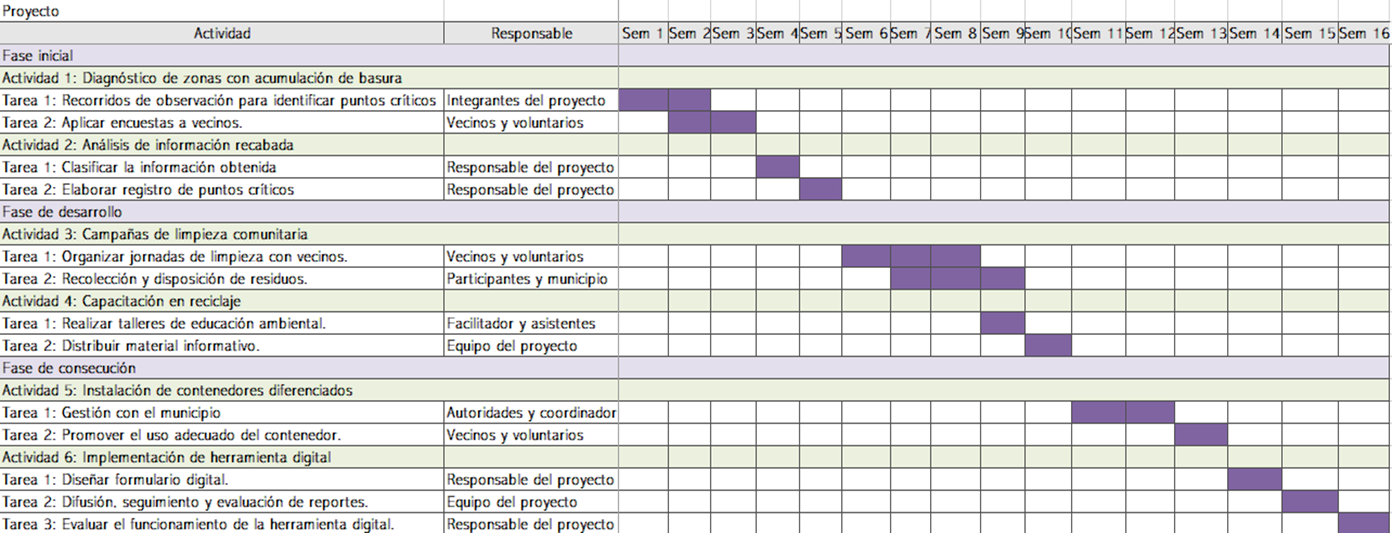
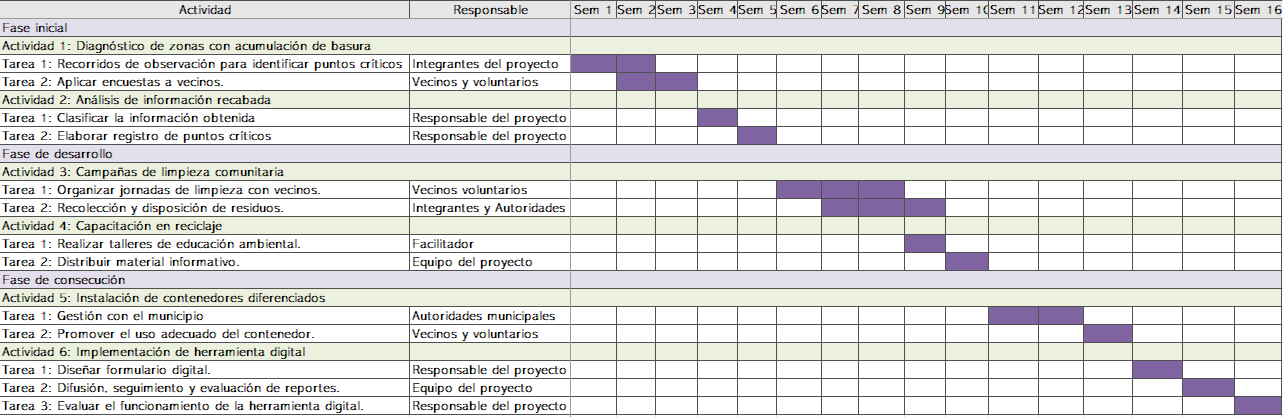
Actualizacion final

diff --git a/resources/views/fase4.blade.php b/resources/views/fase4.blade.php
@@ -96,8 +96,7 @@
                     <div class="card-body">
                         <i class="bi bi-diagram-3-fill fase-icon"></i>
                         <h5 class="mt-3">Fase 3</h5>
-                        <p class="small">Actividades, tareas,<br>
-                            recursos y procesos</p>
+                        <p class="small">Actividades, tareas,<br>recursos y procesos</p>
                     </div>
                 </div>
             </a>
@@ -121,9 +120,7 @@
                     <div class="card-body">
                         <i class="bi bi-bar-chart-steps fase-icon"></i>
                         <h5 class="mt-3">Fase 5: Control</h5>
-                        <p class="small"> Diagrama de Gantt<br>
-                            para gestión del proyecto
-                        </p>
+                        <p class="small">Diagrama de Gantt<br>para gestión del proyecto</p>
                     </div>
                 </div>
             </a>
@@ -138,9 +135,9 @@
     <div class="card p-4 mb-4">
         <h2 class="text-success">Introducción</h2>
         <p>
-            A partir de esta fase del proyecto <strong>“Colonia Limpia”</strong>, se identifican los
-            apoyos necesarios y se asignan responsabilidades claras a cada perfil, lo que permite
-            que las acciones planeadas se realicen de forma práctica y eficiente.
+            A partir de esta fase del proyecto <strong>“Colonia Limpia”</strong>, se identifican los apoyos
+            necesarios y se asignan responsabilidades claras a cada perfil, lo que permite que las
+            acciones planeadas se realicen de forma práctica y eficiente.
         </p>
         <p>
             Esta organización es clave para lograr la participación de la comunidad, optimizar los
@@ -165,117 +162,134 @@
                 </thead>
                 <tbody>
                     <tr>
-                        <td><strong>Coordinador del proyecto</strong></td>
-                        <td>Responsable, organizado, con capacidad de liderazgo y toma de decisiones.</td>
-                        <td>Supervisar actividades, coordinar al equipo, dar seguimiento al plan de acción.</td>
-                        <td>Todas las fases</td>
+                        <td><strong>Responsable del proyecto</strong></td>
+                        <td>Persona con capacidad de organización, análisis y toma de decisiones.</td>
+                        <td>
+                            Coordina las actividades del proyecto, analiza la información recabada,
+                            elabora registros de puntos críticos y evalúa el funcionamiento de la
+                            herramienta digital.
+                        </td>
+                        <td>
+                            Primera fase: Actividades previas<br>
+                            Tercera fase: Actividades de concreción
+                        </td>
                     </tr>
+
                     <tr>
-                        <td><strong>Equipo de diagnóstico</strong></td>
-                        <td>Observadores, comunicativos y comprometidos con la comunidad.</td>
-                        <td>Realizar recorridos, aplicar encuestas y registrar puntos críticos.</td>
-                        <td>Fase 1 y 3</td>
+                        <td><strong>Integrantes del proyecto</strong></td>
+                        <td>Equipo comprometido con el cuidado del medio ambiente y el trabajo comunitario.</td>
+                        <td>
+                            Realizan recorridos de observación, apoyan en la recolección de información
+                            y participan en la difusión de acciones del proyecto.
+                        </td>
+                        <td>
+                            Primera fase: Actividades previas<br>
+                            Segunda fase: Actividades de desarrollo
+                        </td>
                     </tr>
+
                     <tr>
                         <td><strong>Vecinos voluntarios</strong></td>
-                        <td>Participativos, solidarios y con disposición de colaborar.</td>
-                        <td>Apoyar en campañas de limpieza y uso de contenedores.</td>
-                        <td>Fase 3 y 4</td>
+                        <td>Habitantes de la colonia interesados en mejorar su entorno.</td>
+                        <td>
+                            Responden encuestas, participan en jornadas de limpieza y promueven el uso
+                            adecuado de los contenedores de basura.
+                        </td>
+                        <td>
+                            Primera fase: Actividades previas<br>
+                            Segunda fase: Actividades de desarrollo<br>
+                            Tercera fase: Actividades de concreción
+                        </td>
                     </tr>
+
                     <tr>
                         <td><strong>Facilitador ambiental</strong></td>
-                        <td>Con conocimientos en reciclaje y educación ambiental.</td>
-                        <td>Impartir talleres y orientar sobre separación de residuos.</td>
-                        <td>Fase 3</td>
+                        <td>Persona con conocimientos en educación ambiental y reciclaje.</td>
+                        <td>
+                            Imparte talleres de capacitación sobre reciclaje y manejo adecuado de residuos.
+                        </td>
+                        <td>
+                            Segunda fase: Actividades de desarrollo
+                        </td>
                     </tr>
+
                     <tr>
-                        <td><strong>Responsable tecnológico</strong></td>
-                        <td>Con habilidades digitales y manejo de herramientas tecnológicas.</td>
-                        <td>Diseñar y administrar la herramienta digital de reportes.</td>
-                        <td>Fase 3</td>
+                        <td><strong>Equipo del proyecto</strong></td>
+                        <td>Grupo de apoyo operativo y de difusión.</td>
+                        <td>
+                            Distribuye material informativo, difunde campañas y da seguimiento a los
+                            reportes ciudadanos.
+                        </td>
+                        <td>
+                            Segunda fase: Actividades de desarrollo<br>
+                            Tercera fase: Actividades de concreción
+                        </td>
+                    </tr>
+
+                    <tr>
+                        <td><strong>Autoridades municipales</strong></td>
+                        <td>Personal del gobierno local con facultad para apoyar acciones comunitarias.</td>
+                        <td>
+                            Apoyan en la instalación de contenedores y en la disposición adecuada de los residuos.
+                        </td>
+                        <td>
+                            Tercera fase: Actividades de concreción
+                        </td>
                     </tr>
                 </tbody>
             </table>
         </div>
     </div>
-
     <!-- ESQUEMA DE ORGANIZACIÓN -->
-    <div class="card p-4">
-        <h2 class="text-success text-center mb-4">Esquema de organización del proyecto</h2>
+<div class="card p-4 mb-5">
+    <h2 class="text-success text-center mb-4">Esquema de organización del proyecto</h2>
 
-        <div class="row g-4">
-            <div class="col-md-4">
-                <div class="perfil-box">
-                    <h5>Coordinador del proyecto</h5>
-                    <p>Dirige y supervisa todas las fases del proyecto.</p>
-                </div>
-            </div>
+    <div class="text-center">
+        <img 
+            src="organigrama_proyecto.png" 
+            alt="Organigrama del proyecto Colonia Limpia"
+            class="img-fluid rounded shadow mb-3"
+        >
 
-            <div class="col-md-4">
-                <div class="perfil-box">
-                    <h5>Equipo de diagnóstico</h5>
-                    <p>Identifica problemáticas y recopila información clave.</p>
-                </div>
-            </div>
+        <p class="text-muted fst-italic">
+            Figura. Organigrama correspondiente a la estructura de organización y asignación de 
+            responsabilidades de la Fase 4 del proyecto Colonia Limpia.
+        </p>
+    </div>
+</div>
 
-            <div class="col-md-4">
-                <div class="perfil-box">
-                    <h5>Facilitador ambiental</h5>
-                    <p>Capacita a la comunidad en reciclaje y manejo de residuos.</p>
-                </div>
-            </div>
 
-            <div class="col-md-6">
-                <div class="perfil-box">
-                    <h5>Vecinos voluntarios</h5>
-                    <p>Participan activamente en campañas y actividades comunitarias.</p>
-                </div>
-            </div>
+  
 
-            <div class="col-md-6">
-                <div class="perfil-box">
-                    <h5>Responsable tecnológico</h5>
-                    <p>Gestiona la herramienta digital y el seguimiento de reportes.</p>
-                </div>
-            </div>
-        </div>
-        
-    </div><br>
-
- <!-- PREGUNTAS FINALES -->
+    <!-- PREGUNTAS FINALES -->
     <div class="card p-4">
         <h2 class="text-success mb-4">Reflexión sobre la división del trabajo</h2>
 
         <h5>¿Cuál es la importancia de la división del trabajo en la etapa de la organización?</h5>
         <p>
-            Es importante porque permite que cada persona sepa exactamente qué tiene que hacer dentro
-            del proyecto. Al repartir las actividades, el trabajo se vuelve más ordenado, se aprovecha
-            mejor el tiempo y se evitan confusiones. Además, al tener responsabilidades claras, el
-            proyecto puede avanzar de manera más eficiente y se logran mejor los objetivos planteados.
+            La división del trabajo es importante porque permite que cada persona conozca claramente
+            sus responsabilidades dentro del proyecto. Esto facilita la organización, mejora el uso
+            del tiempo y evita confusiones, logrando que el proyecto se desarrolle de manera eficiente.
         </p>
 
         <h5>¿Es necesario integrar colaboradores en tu proyecto? ¿Por qué?</h5>
         <p>
-            Sí, es necesario integrar colaboradores porque un proyecto comunitario no puede ser
-            realizado por una sola persona. Cada actividad requiere apoyo, organización y participación
-            de varias personas para que todo funcione correctamente. Contar con colaboradores permite
-            que las tareas se repartan, se trabaje en equipo y se tenga un mayor impacto en la comunidad.
+            Sí, es necesario integrar colaboradores porque un proyecto comunitario requiere la
+            participación de varias personas. El trabajo en equipo permite repartir tareas, fortalecer
+            las acciones y generar un mayor impacto positivo en la comunidad.
         </p>
 
         <h5>En caso de no contar con colaboradores, ¿qué consecuencias habría?</h5>
         <p>
-            Si no se contara con colaboradores, el proyecto sería mucho más difícil de realizar, las
-            actividades tardarían más tiempo en completarse, habría sobrecarga de trabajo y algunas
-            acciones, como las limpiezas o la capacitación, podrían no llevarse a cabo, afectando el
-            cumplimiento de los objetivos.
+            Sin colaboradores, el proyecto tendría retrasos, sobrecarga de trabajo y dificultades para
+            cumplir con las actividades planeadas, lo que afectaría el logro de los objetivos.
         </p>
 
         <h5>¿Qué tecnologías podrían ayudarte a encontrar personas interesadas?</h5>
         <p>
-            Las tecnologías son una gran ayuda para encontrar personas interesadas en participar.
-            Aplicaciones como WhatsApp y Facebook permiten difundir información rápidamente a través
-            de grupos vecinales. También se pueden usar formularios en línea y el correo electrónico
-            para registrar a los interesados y mantener una buena comunicación con los participantes.
+            Tecnologías como redes sociales, aplicaciones de mensajería y formularios digitales
+            permiten difundir información rápidamente y facilitar la comunicación con personas
+            interesadas en participar en el proyecto.
         </p>
     </div>
 

diff --git a/resources/views/fase3.blade.php b/resources/views/fase3.blade.php
@@ -235,7 +235,7 @@
                         <td>Carretillas, contenedores</td>
                         <td>Teléfono celular</td>
                         <td>$800.00 MXN (transporte y apoyo logístico)</td>
-                        <td>Participantes y apoyo municipal</td>
+                        <td>Integrantes del proyecto y Autoridades municipales</td>
                     </tr>
 
                     <tr>
@@ -244,7 +244,7 @@
                         <td>Material didáctico, carteles</td>
                         <td>Proyector, presentaciones digitales</td>
                         <td>$500.00 MXN (impresión de materiales)</td>
-                        <td>Facilitador y asistentes</td>
+                        <td>Facilitador</td>
                     </tr>
                     <tr>
                         <td>Tarea 4.2 Distribuir material informativo a las familias.</td>
@@ -281,7 +281,7 @@
                         <td>Oficios, señalética</td>
                         <td>Correo electrónico</td>
                         <td>$300.00 MXN (gestión y papelería)</td>
-                        <td>Autoridades y coordinador</td>
+                        <td>Autoridades municipales</td>
                     </tr>
                     <tr>
                         <td>Tarea 5.2 Promover el uso adecuado de los contenedores.</td>

diff --git a/resources/views/fase5.blade.php b/resources/views/fase5.blade.php
@@ -216,7 +216,7 @@
                         <td>Carretillas</td>
                         <td>Teléfono</td>
                         <td>$800.00</td>
-                        <td>Municipio</td>
+                        <td>Integrantes del proyecto y Autoridades municipales</td>
                     </tr>
                     <tr>
                         <td rowspan="2"><strong>Capacitación en reciclaje</strong></td>
@@ -227,7 +227,7 @@
                         <td>Material didáctico</td>
                         <td>Proyector</td>
                         <td>$500.00</td>
-                        <td>Facilitador y asistentes</td>
+                        <td>Facilitador</td>
                     </tr>
                     <tr>
                         <td>1 semana</td>
@@ -274,7 +274,7 @@
                         <td>Oficios, señalética</td>
                         <td>Correo</td>
                         <td>$300.00</td>
-                        <td>Autoridades</td>
+                        <td>Autoridades municipales</td>
                     </tr>
                     <tr>
                         <td>1 semana</td>
